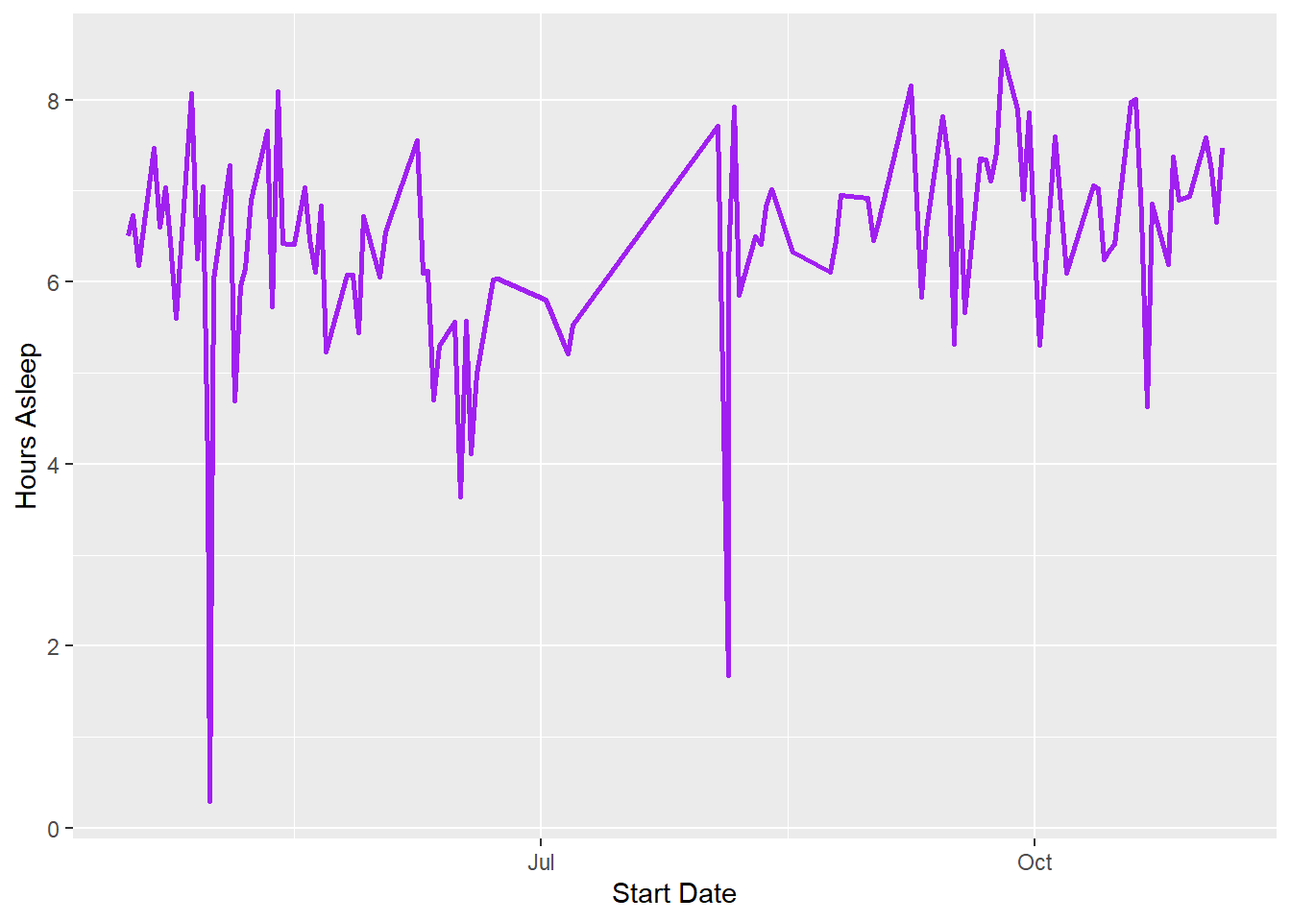
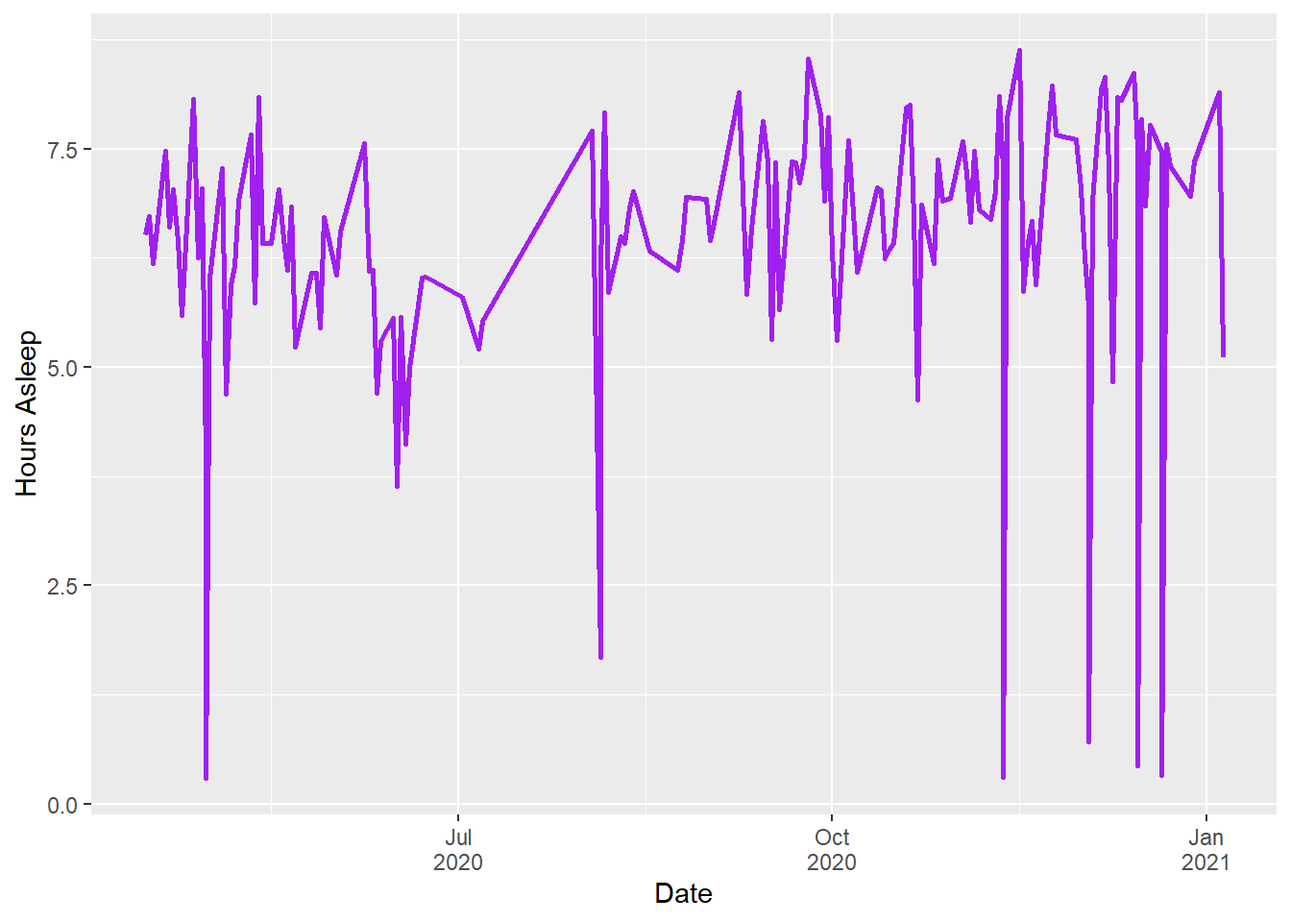
Reload dbase content

diff --git a/rstudio_ref.html b/rstudio_ref.html
@@ -584,31 +584,40 @@ conn &lt;- DBI::dbConnect(
 sql &lt;- glue(&quot;SELECT * FROM sleepdata&quot;)
 res &lt;- dbGetQuery(conn, sql)
 # cols &lt;- names(res)
-
-datatable(res, options=list(scrollX=T))</code></pre>
-<div id="htmlwidget-ea2a5f286cea3336fe67" style="width:100%;height:auto;" class="datatables html-widget"></div>
-<script type="application/json" data-for="htmlwidget-ea2a5f286cea3336fe67">{"x":{"filter":"none","data":[["1","2","3","4","5","6","7","8","9","10","11","12","13","14","15","16","17","18","19","20","21","22","23","24","25","26","27","28","29","30","31","32","33","34","35","36","37","38","39","40","41","42","43","44","45","46","47","48","49","50","51","52","53","54","55","56","57","58","59","60","61","62","63","64","65","66","67","68","69","70","71","72","73","74","75","76","77","78","79","80","81","82","83","84","85","86","87","88","89","90","91","92","93","94","95","96","97","98","99","100","101","102","103","104","105"],["2020-04-15T03:41:00Z","2020-04-16T03:51:00Z","2020-04-17T04:35:00Z","2020-04-20T03:41:00Z","2020-04-21T03:47:00Z","2020-04-22T03:36:00Z","2020-04-23T03:36:00Z","2020-04-24T03:49:00Z","2020-04-27T02:57:00Z","2020-04-28T03:27:00Z","2020-04-29T03:25:00Z","2020-04-30T04:00:00Z","2020-04-30T10:01:00Z","2020-05-01T04:45:00Z","2020-05-04T03:09:00Z","2020-05-05T03:55:00Z","2020-05-06T04:17:00Z","2020-05-07T03:40:00Z","2020-05-08T03:32:00Z","2020-05-11T03:10:00Z","2020-05-12T03:05:00Z","2020-05-13T03:18:00Z","2020-05-14T03:27:00Z","2020-05-15T03:59:00Z","2020-05-16T03:33:00Z","2020-05-18T03:05:00Z","2020-05-19T03:24:00Z","2020-05-20T04:12:00Z","2020-05-21T04:02:00Z","2020-05-22T03:38:00Z","2020-05-26T03:15:00Z","2020-05-27T03:37:00Z","2020-05-28T03:39:00Z","2020-05-29T03:17:00Z","2020-06-01T03:25:00Z","2020-06-02T04:21:00Z","2020-06-08T03:49:00Z","2020-06-09T03:29:00Z","2020-06-10T03:59:00Z","2020-06-11T05:39:00Z","2020-06-12T05:07:00Z","2020-06-15T04:56:00Z","2020-06-16T05:44:00Z","2020-06-17T04:45:00Z","2020-06-18T04:20:00Z","2020-06-19T04:53:00Z","2020-06-22T05:04:00Z","2020-06-23T03:57:00Z","2020-07-02T04:42:00Z","2020-07-06T05:08:00Z","2020-07-07T04:49:00Z","2020-08-03T03:32:00Z","2020-08-05T02:36:00Z","2020-08-05T05:53:00Z","2020-08-06T03:46:00Z","2020-08-07T04:20:00Z","2020-08-10T03:51:00Z","2020-08-11T04:32:00Z","2020-08-12T04:21:00Z","2020-08-13T04:16:00Z","2020-08-17T03:51:00Z","2020-08-24T03:38:00Z","2020-08-25T04:03:00Z","2020-08-26T03:31:00Z","2020-08-31T03:51:00Z","2020-09-01T03:33:00Z","2020-09-02T04:22:00Z","2020-09-08T03:37:00Z","2020-09-10T03:38:00Z","2020-09-11T03:19:00Z","2020-09-14T03:26:00Z","2020-09-15T03:11:00Z","2020-09-16T03:59:00Z","2020-09-17T03:22:00Z","2020-09-18T04:46:00Z","2020-09-21T03:33:00Z","2020-09-22T03:52:00Z","2020-09-23T03:16:00Z","2020-09-24T03:42:00Z","2020-09-25T02:36:00Z","2020-09-28T02:56:00Z","2020-09-29T03:35:00Z","2020-09-30T03:05:00Z","2020-10-01T04:42:00Z","2020-10-02T04:11:00Z","2020-10-05T03:12:00Z","2020-10-07T04:22:00Z","2020-10-12T03:41:00Z","2020-10-13T03:43:00Z","2020-10-14T03:19:00Z","2020-10-15T04:05:00Z","2020-10-16T04:31:00Z","2020-10-19T03:08:00Z","2020-10-20T03:13:00Z","2020-10-21T03:56:00Z","2020-10-22T03:44:00Z","2020-10-23T04:22:00Z","2020-10-26T04:13:00Z","2020-10-27T03:34:00Z","2020-10-28T03:42:00Z","2020-10-30T04:09:00Z","2020-11-02T03:59:00Z","2020-11-03T04:45:00Z","2020-11-04T04:39:00Z","2020-11-05T04:35:00Z"],["2020-04-15T11:12:00Z","2020-04-16T11:35:00Z","2020-04-17T11:55:00Z","2020-04-20T11:57:00Z","2020-04-21T11:34:00Z","2020-04-22T11:45:00Z","2020-04-23T11:16:00Z","2020-04-24T11:07:00Z","2020-04-27T11:36:00Z","2020-04-28T11:20:00Z","2020-04-29T11:33:00Z","2020-04-30T09:04:00Z","2020-04-30T10:19:00Z","2020-05-01T11:47:00Z","2020-05-04T11:35:00Z","2020-05-05T10:24:00Z","2020-05-06T10:50:00Z","2020-05-07T11:09:00Z","2020-05-08T11:22:00Z","2020-05-11T11:34:00Z","2020-05-12T09:33:00Z","2020-05-13T11:42:00Z","2020-05-14T10:08:00Z","2020-05-15T11:33:00Z","2020-05-16T10:57:00Z","2020-05-18T11:48:00Z","2020-05-19T11:05:00Z","2020-05-20T11:02:00Z","2020-05-21T11:34:00Z","2020-05-22T10:31:00Z","2020-05-26T10:51:00Z","2020-05-27T11:15:00Z","2020-05-28T10:16:00Z","2020-05-29T10:38:00Z","2020-06-01T11:02:00Z","2020-06-02T11:31:00Z","2020-06-08T12:32:00Z","2020-06-09T11:01:00Z","2020-06-10T11:15:00Z","2020-06-11T10:39:00Z","2020-06-12T11:25:00Z","2020-06-15T11:19:00Z","2020-06-16T09:57:00Z","2020-06-17T11:20:00Z","2020-06-18T09:53:00Z","2020-06-19T11:13:00Z","2020-06-22T11:33:00Z","2020-06-23T10:39:00Z","2020-07-02T11:33:00Z","2020-07-06T11:14:00Z","2020-07-07T10:27:00Z","2020-08-03T11:58:00Z","2020-08-05T04:19:00Z","2020-08-05T12:12:00Z","2020-08-06T11:51:00Z","2020-08-07T12:13:00Z","2020-08-10T11:33:00Z","2020-08-11T11:49:00Z","2020-08-12T11:52:00Z","2020-08-13T12:11:00Z","2020-08-17T11:19:00Z","2020-08-24T11:01:00Z","2020-08-25T11:46:00Z","2020-08-26T11:40:00Z","2020-08-31T11:47:00Z","2020-09-01T11:39:00Z","2020-09-02T11:52:00Z","2020-09-08T11:56:00Z","2020-09-10T10:51:00Z","2020-09-11T11:02:00Z","2020-09-14T12:07:00Z","2020-09-15T11:50:00Z","2020-09-16T10:13:00Z","2020-09-17T12:05:00Z","2020-09-18T11:29:00Z","2020-09-21T11:58:00Z","2020-09-22T11:53:00Z","2020-09-23T11:44:00Z","2020-09-24T11:56:00Z","2020-09-25T11:52:00Z","2020-09-28T11:52:00Z","2020-09-29T11:44:00Z","2020-09-30T11:55:00Z","2020-10-01T12:12:00Z","2020-10-02T10:32:00Z","2020-10-05T11:50:00Z","2020-10-07T11:44:00Z","2020-10-12T12:03:00Z","2020-10-13T12:06:00Z","2020-10-14T12:12:00Z","2020-10-15T11:51:00Z","2020-10-16T11:45:00Z","2020-10-19T12:03:00Z","2020-10-20T11:57:00Z","2020-10-21T12:10:00Z","2020-10-22T10:24:00Z","2020-10-23T11:56:00Z","2020-10-26T11:50:00Z","2020-10-27T11:51:00Z","2020-10-28T11:59:00Z","2020-10-30T12:08:00Z","2020-11-02T12:57:00Z","2020-11-03T13:00:00Z","2020-11-04T12:47:00Z","2020-11-05T12:58:00Z"],[0.88,0.7,0.8,0.75,0.7,0.94,0.79,0.84,0.75,0.89,0.87,0.42,0.04,0.81,0.73,0.76,0.69,0.65,0.65,0.64,0.46,0.72,0.64,0.63,0.72,0.69,0.78,0.82,0.84,0.71,0.64,0.7,0.64,0.51,0.81,0.83,0.82,0.72,0.71,0.47,0.69,0.65,0.48,0.68,0.63,0.65,0.66,0.69,0.74,0.56,0.63,0.67,0.22,0.54,0.6,0.54,0.66,0.65,0.69,0.67,0.69,0.71,0.68,0.77,0.64,0.8,0.71,0.64,0.61,0.65,0.84,0.82,0.51,0.84,0.68,0.69,0.76,0.81,0.66,0.81,0.85,0.75,0.83,0.74,0.55,0.79,0.82,0.78,0.82,0.67,0.79,0.68,0.86,0.93,0.74,0.62,0.81,0.86,0.85,0.81,0.85,0.95,0.82,0.87,0.82],[0,0,0.91,0.92,0.96,0.96,0.96,0.97,0.89,0.94,0.96,0.89,0,0.81,0.85,0.84,0.89,0.9,0.94,0.95,0.82,0.81,0.83,0.83,0.87,0.9,0.9,0.92,0.93,0.92,0,0.94,0.93,0.93,0.95,0.88,0,0.85,0.89,0.86,0.88,0.98,0.82,0.81,0.82,0.83,0.96,0.83,0,0,0.91,0,-0.44,0.78,0.79,0.86,0.9,0.92,0.95,0.96,0,0,0.9,0.92,0,0.96,0.94,0,0.91,0.93,0.9,0.96,0.88,0.85,0.81,0.86,0.97,0.95,0.95,0.93,0.97,0.93,0.94,0.91,0.87,0.81,0.89,0,0.99,0.98,0.95,0.94,0.86,0.98,0.95,0.91,0.86,0.98,0.94,0.96,0.96,0.97,0.98,0.98,0.98],["%","%","%","%","%","%","%","%","%","%","%","%","%","%","%","%","%","%","%","%","%","%","%","%","%","%","%","%","%","%","%","%","%","%","%","%","%","%","%","%","%","%","%","%","%","%","%","%","%","%","%","%","%","%","%","%","%","%","%","%","%","%","%","%","%","%","%","%","%","%","%","%","%","%","%","%","%","%","%","%","%","%","%","%","%","%","%","%","%","%","%","%","%","%","%","%","%","%","%","%","%","%","%","%","%"],[null,null,null,null,null,null,null,null,null,null,null,null,null,null,null,null,null,null,null,null,null,null,null,null,null,null,null,null,null,null,null,null,null,null,null,null,null,null,null,null,null,null,null,null,null,null,null,null,null,null,null,null,null,null,null,null,null,null,null,null,null,null,null,null,null,null,null,null,null,null,null,null,null,null,null,null,null,null,null,null,null,null,null,null,null,null,null,null,null,null,null,null,null,null,null,null,null,null,null,null,null,null,null,null,null],[0,0,0,0,0,0,0,0,0,0,0,0,0,0,0,0,0,0,0,0,0,0,0,0,0,0,0,0,0,0,0,0,0,0,0,0,0,0,0,0,0,0,0,0,0,0,0,0,0,0,0,0,0,0,0,0,0,69,0,0,0,82,0,0,0,0,0,0,0,0,0,0,0,0,0,0,0,0,97,0,0,0,0,0,0,0,0,0,0,71,0,0,0,0,0,0,0,65,0,0,0,0,0,0,0],[0,0,0,0,0,4951,464,559,3802,15,752,309,309,848,518,2364,1139,1045,1331,2470,1452,868,802,974,877,3611,2099,1103,199,662,1742,608,257,4614,3634,657,263,1973,1812,4317,6482,1212,1841,4289,1653,5367,5206,965,9664,13484,10050,14673,3064,3064,5797,1316,7307,6444,8585,7214,5973,10467,9378,8326,10273,9411,7163,17174,4928,7036,9145,2941,0,9045,3005,10904,7574,9566,1964,5888,10462,3880,3193,4421,3175,5397,5240,8578,8291,2145,6688,6076,18043,10493,10161,4630,6617,17505,8262,3700,5282,7318,4819,2271,7699],["Normal","Normal","Normal","Normal","Normal","Normal","Normal","Normal","Normal","Normal","Normal","Normal","Normal","Normal","Normal","Normal","Normal","Normal","Normal","Normal","Normal","Normal","Normal","Normal","Normal","Normal","Normal","Normal","Normal","Normal","Normal","Normal","Normal","Normal","Normal","Normal","Normal","Normal","Normal","Normal","Normal","Normal","Normal","Normal","Normal","Normal","Normal","Normal","Normal","Normal","Normal","Normal","Normal","Normal","Normal","Normal","Normal","Normal","Normal","Normal","Normal","Normal","Normal","Normal","Normal","Normal","Normal","Normal","Normal","Normal","Normal","Normal","Normal","Normal","Normal","Normal","Normal","Normal","Normal","Normal","Normal","Normal","Normal","Normal","Normal","Normal","Normal","Normal","Normal","Normal","Normal","Normal","Normal","Normal","Normal","Normal","Normal","Normal","Normal","Normal","Normal","Normal","Normal","Normal","Normal"],[102.1,102,101.7,101.5,101.7,102.2,101.5,102.3,101,101.9,101.9,101.1,101.4,101.8,102.2,101.9,101.4,102.9,102,100.3,100.4,100.4,100.9,101.4,101.4,100.3,100.8,101.5,101.5,101.3,101.6,101.8,101.5,101,101.6,102,101.5,101.9,101.8,101.5,101.2,101.2,101.2,101.9,102.2,101.5,102,101.6,101.1,101.6,0,101.5,101.1,101.1,100.9,101.5,102,101.2,101,101.6,100.9,101.1,101.1,101.2,101.5,101.8,101.6,101.9,101,101,100.9,101.1,101.5,101.4,101,101.3,101.2,101.1,100.4,101.2,102.7,101.8,101.4,101.9,101.7,101.9,101.3,100.3,101.7,101.6,102.9,102.8,101.5,101.9,101.7,102.1,102.4,103.1,102.8,102.3,101.3,101.8,101.2,101,101.4],[null,null,"Steilacoom","Steilacoom","Steilacoom","Steilacoom","Steilacoom","Steilacoom","Steilacoom","Steilacoom","Steilacoom","Steilacoom","Steilacoom","Anderson Island","Steilacoom","DuPont","Steilacoom","Steilacoom","Anderson Island","Steilacoom","Steilacoom","Steilacoom","Steilacoom","Steilacoom","Steilacoom","Steilacoom","Steilacoom","Steilacoom","Steilacoom","Steilacoom","Steilacoom","Steilacoom","Steilacoom","Steilacoom","Steilacoom","Steilacoom","Steilacoom","Steilacoom","Steilacoom","Steilacoom","Steilacoom","Steilacoom","Steilacoom","Steilacoom","Steilacoom","Steilacoom","Steilacoom","Steilacoom","Steilacoom","Steilacoom",null,"Steilacoom","Steilacoom","Steilacoom","Steilacoom","Steilacoom","Steilacoom","Steilacoom","Steilacoom","Steilacoom","Steilacoom","Steilacoom","Steilacoom","Steilacoom","Steilacoom","Steilacoom","Steilacoom","Steilacoom","Steilacoom","Steilacoom","Steilacoom","Steilacoom","Steilacoom","Steilacoom","Steilacoom","Steilacoom","Steilacoom","Steilacoom","Steilacoom","Steilacoom","Steilacoom","Steilacoom","Steilacoom","Steilacoom","Steilacoom","Steilacoom","Steilacoom","Steilacoom","Steilacoom","Steilacoom","Steilacoom","Steilacoom","Steilacoom","Steilacoom","Anderson Island","Steilacoom","Steilacoom","Steilacoom","Steilacoom","Steilacoom","Steilacoom","Steilacoom","Steilacoom","Steilacoom","Steilacoom"],[69.4,92.5,74,92.6,96.9,71.1,82,70.3,98,73.2,77.6,103.2,0,69.7,101,68.3,79.9,99.6,106.5,119.9,138.5,116.8,102.2,124.4,101.1,135.3,97.4,64.4,78.5,93.2,125.4,112.9,106,161.6,90.7,72.7,113.9,111.2,106.4,111.8,84.8,99.1,78.4,94.8,79.4,97.3,98,96.7,86.7,114,0,137.2,13.1,130.5,156.3,175.5,137.6,130.1,125.9,143.7,125.1,118.7,134.9,122.8,155.2,112.2,123.2,166.6,147.4,152.5,121.4,125.9,159.9,124.1,111.2,160.1,128.5,127.4,166.8,143,130,137.1,134.1,122.9,153.2,138.9,89.9,134.6,125.3,183.8,116.4,136.3,129,106.1,146.2,140.1,104.9,89.7,116,125.9,103.6,106.4,122.5,105,125.5],[27056.9,27844.9,26392.4,29766.6,27988.7,29345.9,27611.1,26285,31113.1,28385.9,29258.9,18210.4,1072.6,25324.2,30342.6,23340.1,23619.4,26912.5,28238.3,30290.3,23269,30243.2,24087.3,27184.4,26649.2,31413.7,27690.4,24606.5,27132.6,24787.6,27336.8,27477.3,23810.6,26472.9,27381.7,25838.4,31389.8,27103,26207.5,17955.5,22688.3,22995.8,15180.9,23677.6,20027.7,22850.4,23329.7,24154.6,24669.5,21906.9,20317.9,30372.7,6171.4,22733.6,29084.5,28365.4,27718.5,26233.7,27082,28485.5,26907.1,26607.4,27772,29320.3,28523.5,29150.8,26991.1,29937.2,25934.9,27762.6,31258.7,31158.9,22440.4,31350.6,24179.6,30293,28851.5,30473.9,29653.5,33385.2,32171.6,29360.2,31773.7,26982.6,22822.6,31077.8,26533.7,30104.6,30224.9,31972.4,27983.4,26046.4,32123.6,31433.7,29616.3,24034.9,27227.8,27396.2,29828.6,29814.9,28716.9,32266.4,29647.8,29244.1,30222.2],[23449.3,24225,22257.6,26889.2,23790.4,25335.3,23193.3,20151.8,29038.9,22519.5,25357.7,14204.1,1051.2,21694.4,26195.7,16882.7,21414.9,22157.9,24849.7,27564.2,20631.8,29134.3,23123.8,23106.8,23096,25340.3,23259.9,21981.8,24600.2,18838.6,21869.4,21890.3,19604.1,24178.6,21814.1,23599.1,27204.5,21953.4,22014.3,16938.1,19058.2,20006.3,13106.2,20047,14820.5,17975.7,21696.6,21739.1,20886.8,18766.9,19911.5,27740.4,6048,22278.9,28502.8,21084.9,23376,23085.6,24554.3,25257.1,22781.4,21995.5,23235.9,25020,24910.5,23223.4,23932.1,29338.4,21007.3,23690.7,28132.9,26485.1,19149.1,26439,20391.4,26455.9,26447.2,25598.1,26688.1,30714.4,28418.2,24858.3,28278.6,22755.3,19094.9,27348.5,21934.5,25388.2,25288.2,22487.3,22853.1,23094.5,28697,28814.3,24186.7,16664.2,24686.6,22282.2,26547.5,24845.7,24983.7,27318.9,25991.2,23980.2,26897.8],[541.1,2227.6,527.8,595.3,559.8,2934.6,552.2,525.7,622.3,4068.6,3218.5,364.2,21.5,506.5,2326.3,2800.8,472.4,2153,1882.6,605.8,2637.2,1108.9,481.7,3352.7,533,6073.3,3138.2,492.1,542.7,1817.8,3371.5,3205.7,476.2,529.5,3194.5,516.8,627.8,4426.8,524.1,359.1,2420.1,459.9,303.6,473.6,1401.9,3503.7,466.6,483.1,493.4,438.1,406.4,607.5,123.4,454.7,581.7,567.3,554.4,524.7,541.6,569.7,538.1,532.1,555.4,586.4,570.5,2915.1,539.8,598.7,518.7,555.3,625.2,623.2,448.8,627,483.6,605.9,577,2844.2,593.1,667.7,643.4,1663.7,635.5,539.7,456.5,621.6,1857.4,602.1,604.5,639.4,559.7,520.9,642.5,628.7,1579.5,480.7,544.6,2100.4,596.6,596.3,574.3,645.3,593,1657.2,1208.9],["2020-04-15T11:30:00Z","2020-04-16T11:30:00Z","2020-04-17T11:30:00Z","2020-04-20T11:30:00Z","2020-04-21T11:30:00Z","2020-04-22T11:30:00Z","2020-04-23T11:30:00Z","2020-04-24T11:30:00Z","2020-04-27T11:30:00Z","2020-04-28T11:30:00Z","2020-04-29T11:30:00Z","2020-04-30T11:30:00Z","2020-04-30T11:30:00Z","2020-05-01T11:30:00Z","2020-05-04T11:30:00Z","2020-05-05T11:30:00Z","2020-05-06T11:30:00Z","2020-05-07T11:30:00Z","2020-05-08T11:30:00Z","2020-05-11T11:30:00Z","2020-05-12T11:30:00Z","2020-05-13T11:30:00Z","2020-05-14T11:30:00Z","2020-05-15T11:30:00Z","2020-05-16T12:30:00Z","2020-05-18T11:30:00Z","2020-05-19T11:30:00Z","2020-05-20T11:30:00Z","2020-05-21T11:30:00Z","2020-05-22T11:30:00Z","2020-05-26T11:30:00Z","2020-05-27T11:30:00Z","2020-05-28T11:30:00Z","2020-05-29T11:30:00Z","2020-06-01T11:30:00Z","2020-06-02T11:30:00Z","2020-06-08T11:30:00Z","2020-06-09T11:30:00Z","2020-06-10T11:30:00Z","2020-06-11T11:30:00Z","2020-06-12T11:30:00Z","2020-06-15T11:30:00Z","2020-06-16T11:30:00Z","2020-06-17T11:30:00Z","2020-06-18T11:30:00Z","2020-06-19T11:30:00Z","2020-06-22T11:30:00Z","2020-06-23T11:30:00Z","2020-07-02T11:30:00Z","2020-07-06T11:30:00Z",null,"2020-08-03T11:30:00Z","2020-08-05T11:30:00Z","2020-08-05T12:00:00Z","2020-08-06T11:45:00Z","2020-08-07T11:45:00Z","2020-08-10T11:45:00Z","2020-08-11T11:45:00Z","2020-08-12T11:45:00Z","2020-08-13T11:45:00Z","2020-08-17T11:40:00Z","2020-08-24T11:40:00Z","2020-08-25T11:40:00Z","2020-08-26T11:40:00Z","2020-08-31T11:40:00Z","2020-09-01T11:40:00Z","2020-09-02T11:40:00Z","2020-09-08T11:45:00Z","2020-09-10T11:45:00Z","2020-09-11T11:45:00Z","2020-09-14T11:45:00Z","2020-09-15T11:45:00Z","2020-09-16T11:45:00Z","2020-09-17T11:45:00Z","2020-09-18T11:45:00Z","2020-09-21T11:45:00Z","2020-09-22T11:45:00Z","2020-09-23T11:45:00Z","2020-09-24T11:45:00Z","2020-09-25T11:45:00Z","2020-09-28T11:45:00Z","2020-09-29T11:45:00Z","2020-09-30T11:45:00Z","2020-10-01T11:45:00Z","2020-10-02T11:45:00Z","2020-10-05T11:45:00Z","2020-10-07T11:45:00Z","2020-10-12T11:45:00Z","2020-10-13T11:45:00Z","2020-10-14T11:45:00Z","2020-10-15T11:45:00Z","2020-10-16T11:45:00Z","2020-10-19T11:45:00Z","2020-10-20T11:45:00Z","2020-10-21T11:45:00Z","2020-10-22T11:45:00Z","2020-10-23T11:45:00Z","2020-10-26T11:45:00Z","2020-10-27T11:45:00Z","2020-10-28T11:45:00Z","2020-10-30T11:45:00Z","2020-11-02T13:00:00Z","2020-11-03T13:00:00Z","2020-11-04T13:00:00Z","2020-11-05T13:00:00Z"],["2020-04-15T12:00:00Z","2020-04-16T12:00:00Z","2020-04-17T12:00:00Z","2020-04-20T12:00:00Z","2020-04-21T12:00:00Z","2020-04-22T12:00:00Z","2020-04-23T12:00:00Z","2020-04-24T12:00:00Z","2020-04-27T12:00:00Z","2020-04-28T12:00:00Z","2020-04-29T12:00:00Z","2020-04-30T12:00:00Z","2020-04-30T12:00:00Z","2020-05-01T12:00:00Z","2020-05-04T12:00:00Z","2020-05-05T12:00:00Z","2020-05-06T12:00:00Z","2020-05-07T12:00:00Z","2020-05-08T12:00:00Z","2020-05-11T12:00:00Z","2020-05-12T12:00:00Z","2020-05-13T12:00:00Z","2020-05-14T12:00:00Z","2020-05-15T12:00:00Z","2020-05-16T13:00:00Z","2020-05-18T12:00:00Z","2020-05-19T12:00:00Z","2020-05-20T12:00:00Z","2020-05-21T12:00:00Z","2020-05-22T12:00:00Z","2020-05-26T12:00:00Z","2020-05-27T12:00:00Z","2020-05-28T12:00:00Z","2020-05-29T12:00:00Z","2020-06-01T12:00:00Z","2020-06-02T12:00:00Z","2020-06-08T12:00:00Z","2020-06-09T12:00:00Z","2020-06-10T12:00:00Z","2020-06-11T12:00:00Z","2020-06-12T12:00:00Z","2020-06-15T12:00:00Z","2020-06-16T12:00:00Z","2020-06-17T12:00:00Z","2020-06-18T12:00:00Z","2020-06-19T12:00:00Z","2020-06-22T12:00:00Z","2020-06-23T12:00:00Z","2020-07-02T12:00:00Z","2020-07-06T12:00:00Z",null,"2020-08-03T12:00:00Z","2020-08-05T12:00:00Z","2020-08-05T12:30:00Z","2020-08-06T12:15:00Z","2020-08-07T12:15:00Z","2020-08-10T12:15:00Z","2020-08-11T12:15:00Z","2020-08-12T12:15:00Z","2020-08-13T12:15:00Z","2020-08-17T12:10:00Z","2020-08-24T12:10:00Z","2020-08-25T12:10:00Z","2020-08-26T12:10:00Z","2020-08-31T12:10:00Z","2020-09-01T12:10:00Z","2020-09-02T12:10:00Z","2020-09-08T12:15:00Z","2020-09-10T12:15:00Z","2020-09-11T12:15:00Z","2020-09-14T12:15:00Z","2020-09-15T12:15:00Z","2020-09-16T12:15:00Z","2020-09-17T12:15:00Z","2020-09-18T12:15:00Z","2020-09-21T12:15:00Z","2020-09-22T12:15:00Z","2020-09-23T12:15:00Z","2020-09-24T12:15:00Z","2020-09-25T12:15:00Z","2020-09-28T12:15:00Z","2020-09-29T12:15:00Z","2020-09-30T12:15:00Z","2020-10-01T12:15:00Z","2020-10-02T12:15:00Z","2020-10-05T12:15:00Z","2020-10-07T12:15:00Z","2020-10-12T12:15:00Z","2020-10-13T12:15:00Z","2020-10-14T12:15:00Z","2020-10-15T12:15:00Z","2020-10-16T12:15:00Z","2020-10-19T12:15:00Z","2020-10-20T12:15:00Z","2020-10-21T12:15:00Z","2020-10-22T12:15:00Z","2020-10-23T12:15:00Z","2020-10-26T12:15:00Z","2020-10-27T12:15:00Z","2020-10-28T12:15:00Z","2020-10-30T12:15:00Z","2020-11-02T13:30:00Z","2020-11-03T13:30:00Z","2020-11-04T13:30:00Z","2020-11-05T13:30:00Z"],[true,true,true,true,true,true,true,true,true,true,true,true,true,true,true,true,true,true,true,true,true,true,true,true,true,true,true,true,true,true,true,true,true,true,true,true,true,true,true,true,true,true,true,true,true,true,true,true,true,true,false,true,true,true,true,true,true,true,true,true,true,true,true,true,true,true,true,true,true,true,true,true,false,true,true,true,true,true,true,true,true,true,true,true,true,true,true,true,true,true,true,true,true,true,true,true,true,true,true,true,true,true,true,true,true],[444,0,547,67,93,1001,581,0,0,0,0,73,0,0,0,0,0,696,327,0,129,139,227,224,70,69,282,1562,254,67,379,72,146,68,0,177,77,162,0,694,203,173,0,319,67,66,1768,0,246,159,0,0,0,68,0,91,0,66,66,145,0,240,0,307,0,85,335,0,875,1160,212.4,389.7,0,635.2,1051.3,3712.5,1778.8,417,4108,6673,635.1,1330.6,1828.3,151.3,137.7,1024.7,388.8,297.2,1181,693.9,76.4,228.4,0,510.3,620,580.7,0,420.3,0,1476.2,100.4,454.3,904.8,884.3,280.9],[32,32,37.6,44.2,45.9,45.9,49.5,45,49.8,45,47.1,50.2,32,41.9,37.6,48,49.5,44.6,47.5,52.7,52.5,50.9,49.8,48.4,51.6,47.3,52,52,47.1,45.7,55.2,51.4,54,62.4,50.4,46.6,49.6,52.3,54.7,56.8,55,53.8,50,48.2,53.1,55.6,51.6,60.1,52.7,53.4,32,60.8,32,59.2,62.2,54.5,55.9,53.8,53.4,50.2,64.8,59.2,57.6,57.7,58.6,56.8,57.2,63.7,68,63.9,58.1,64.9,32,60.6,60.3,54.5,57.7,57.7,57,58.1,52.2,54,54,56.7,55.9,51.4,54.7,52.9,53.1,50.2,44.8,54,53.4,47.5,49.1,43.9,39.7,37.8,37.9,48.4,51.1,41.5,46.2,57.7,54.7],["No weather","No weather","Sunny","Fair","Cloudy","Cloudy","Rain","Rain","Cloudy","Cloudy","Cloudy","Cloudy","No weather","Fair","Sunny","Cloudy","Partly cloudy","Sunny","Sunny","Cloudy","Rain","Rain","Cloudy","Fair","Partly cloudy","Partly cloudy","Partly cloudy","Cloudy","Fair","Sunny","Cloudy","Sunny","Partly cloudy","Cloudy","Cloudy","Cloudy","Fair","Rain","Partly cloudy","Rain","Rain","Rain","Rain","Fair","Sunny","Partly cloudy","Partly cloudy","Sunny","Partly cloudy","Partly cloudy","No weather","Cloudy","No weather","Partly cloudy","Cloudy","Fair","Sunny","Partly cloudy","Cloudy","Sunny","Fair","Sunny","Sunny","Sunny","Rain","Sunny","Sunny","Fair","Sunny","Sunny","Cloudy","Fair","No weather","Fog","Cloudy","Cloudy","Partly cloudy","Rain","Rain","Rain","Sunny","Partly cloudy","Fog","Fog","Fog","Fog","Cloudy","Partly cloudy","Rain","Cloudy","Partly cloudy","Cloudy","Fair","Partly cloudy","Sunny","Fair","Cloudy","Partly cloudy","Partly cloudy","Cloudy","Rain","Sunny","Cloudy","Cloudy","Rain"],[null,null,null,null,null,null,null,null,null,null,null,null,null,null,null,null,null,null,null,null,null,null,null,null,null,null,null,null,null,null,null,null,null,null,null,null,null,null,null,null,null,null,null,null,null,null,null,null,null,null,null,null,null,null,null,null,null,null,null,null,null,null,null,null,null,null,null,null,null,null,null,null,null,null,null,null,null,"Sick",null,null,null,null,null,null,null,null,null,null,null,null,null,null,null,null,null,null,null,null,null,null,null,null,null,null,null],["2020-11-05T22:59:24Z","2020-11-05T22:59:24Z","2020-11-05T22:59:24Z","2020-11-05T22:59:24Z","2020-11-05T22:59:24Z","2020-11-05T22:59:24Z","2020-11-05T22:59:24Z","2020-11-05T22:59:24Z","2020-11-05T22:59:24Z","2020-11-05T22:59:24Z","2020-11-05T22:59:24Z","2020-11-05T22:59:24Z","2020-11-05T22:59:24Z","2020-11-05T22:59:24Z","2020-11-05T22:59:24Z","2020-11-05T22:59:24Z","2020-11-05T22:59:24Z","2020-11-05T22:59:24Z","2020-11-05T22:59:24Z","2020-11-05T22:59:24Z","2020-11-05T22:59:24Z","2020-11-05T22:59:24Z","2020-11-05T22:59:24Z","2020-11-05T22:59:24Z","2020-11-05T22:59:24Z","2020-11-05T22:59:24Z","2020-11-05T22:59:24Z","2020-11-05T22:59:24Z","2020-11-05T22:59:24Z","2020-11-05T22:59:24Z","2020-11-05T22:59:24Z","2020-11-05T22:59:24Z","2020-11-05T22:59:24Z","2020-11-05T22:59:24Z","2020-11-05T22:59:24Z","2020-11-05T22:59:24Z","2020-11-05T22:59:24Z","2020-11-05T22:59:24Z","2020-11-05T22:59:24Z","2020-11-05T22:59:24Z","2020-11-05T22:59:24Z","2020-11-05T22:59:24Z","2020-11-05T22:59:24Z","2020-11-05T22:59:24Z","2020-11-05T22:59:24Z","2020-11-05T22:59:24Z","2020-11-05T22:59:24Z","2020-11-05T22:59:24Z","2020-11-05T22:59:24Z","2020-11-05T22:59:24Z","2020-11-05T22:59:24Z","2020-11-05T22:59:24Z","2020-11-05T22:59:24Z","2020-11-05T22:59:24Z","2020-11-05T22:59:24Z","2020-11-05T22:59:24Z","2020-11-05T22:59:24Z","2020-11-05T22:59:24Z","2020-11-05T22:59:24Z","2020-11-05T22:59:24Z","2020-11-05T22:59:24Z","2020-11-05T22:59:24Z","2020-11-05T22:59:24Z","2020-11-05T22:59:24Z","2020-11-05T22:59:24Z","2020-11-05T22:59:24Z","2020-11-05T22:59:24Z","2020-11-05T22:59:24Z","2020-11-05T22:59:24Z","2020-11-05T22:59:24Z","2020-11-05T22:59:24Z","2020-11-05T22:59:24Z","2020-11-05T22:59:24Z","2020-11-05T22:59:24Z","2020-11-05T22:59:24Z","2020-11-05T22:59:24Z","2020-11-05T22:59:24Z","2020-11-05T22:59:24Z","2020-11-05T22:59:24Z","2020-11-05T22:59:24Z","2020-11-05T22:59:24Z","2020-11-05T22:59:24Z","2020-11-05T22:59:24Z","2020-11-05T22:59:24Z","2020-11-05T22:59:24Z","2020-11-05T22:59:24Z","2020-11-05T22:59:24Z","2020-11-05T22:59:24Z","2020-11-05T22:59:24Z","2020-11-05T22:59:24Z","2020-11-05T22:59:24Z","2020-11-05T22:59:24Z","2020-11-05T22:59:24Z","2020-11-05T22:59:24Z","2020-11-05T22:59:24Z","2020-11-05T22:59:24Z","2020-11-05T22:59:24Z","2020-11-05T22:59:24Z","2020-11-05T22:59:24Z","2020-11-05T22:59:24Z","2020-11-05T22:59:24Z","2020-11-05T22:59:24Z","2020-11-05T22:59:24Z","2020-11-05T22:59:24Z","2020-11-05T22:59:24Z"],["cgrant","cgrant","cgrant","cgrant","cgrant","cgrant","cgrant","cgrant","cgrant","cgrant","cgrant","cgrant","cgrant","cgrant","cgrant","cgrant","cgrant","cgrant","cgrant","cgrant","cgrant","cgrant","cgrant","cgrant","cgrant","cgrant","cgrant","cgrant","cgrant","cgrant","cgrant","cgrant","cgrant","cgrant","cgrant","cgrant","cgrant","cgrant","cgrant","cgrant","cgrant","cgrant","cgrant","cgrant","cgrant","cgrant","cgrant","cgrant","cgrant","cgrant","cgrant","cgrant","cgrant","cgrant","cgrant","cgrant","cgrant","cgrant","cgrant","cgrant","cgrant","cgrant","cgrant","cgrant","cgrant","cgrant","cgrant","cgrant","cgrant","cgrant","cgrant","cgrant","cgrant","cgrant","cgrant","cgrant","cgrant","cgrant","cgrant","cgrant","cgrant","cgrant","cgrant","cgrant","cgrant","cgrant","cgrant","cgrant","cgrant","cgrant","cgrant","cgrant","cgrant","cgrant","cgrant","cgrant","cgrant","cgrant","cgrant","cgrant","cgrant","cgrant","cgrant","cgrant","cgrant"]],"container":"<table class=\"display\">\n  <thead>\n    <tr>\n      <th> <\/th>\n      <th>start_time<\/th>\n      <th>end_time<\/th>\n      <th>sleep_quality<\/th>\n      <th>regularity<\/th>\n      <th>unit<\/th>\n      <th>mood<\/th>\n      <th>heart_rate_bpm<\/th>\n      <th>steps<\/th>\n      <th>alarm_mode<\/th>\n      <th>air_pressure_pa<\/th>\n      <th>city<\/th>\n      <th>movements_per_hour<\/th>\n      <th>seconds_in bed<\/th>\n      <th>seconds_asleep<\/th>\n      <th>seconds_until_sleep<\/th>\n      <th>wakeup_window_start<\/th>\n      <th>wakeup_window_end<\/th>\n      <th>snore<\/th>\n      <th>snore_time<\/th>\n      <th>weather_temperature_f<\/th>\n      <th>weather_type<\/th>\n      <th>notes<\/th>\n      <th>rev_time<\/th>\n      <th>rev_user<\/th>\n    <\/tr>\n  <\/thead>\n<\/table>","options":{"scrollX":true,"columnDefs":[{"className":"dt-right","targets":[3,4,7,8,10,12,13,14,15,19,20]},{"orderable":false,"targets":0}],"order":[],"autoWidth":false,"orderClasses":false}},"evals":[],"jsHooks":[]}</script>
+#datatable(res, options=list(scrollX=T))</code></pre>
 </div>
 </div>
 <div id="plots" class="section level1">
 <h1>Plots</h1>
 <div id="steps" class="section level2">
 <h2>Steps</h2>
-<pre class="r"><code>plt1 &lt;- ggplot(res, aes(x=start_time, y=steps)) +
+<pre class="r"><code>plt1 &lt;- ggplot(res, aes(x=as.Date(start_time), y=steps)) +
   geom_line(color=&quot;red&quot;, size=1) +
   ylab(&quot;Steps&quot;) +
-  xlab(&quot;Start Date&quot;)
+  xlab(&quot;Date&quot;) +
+  scale_x_date(date_labels=&quot;%b\n%Y&quot;)
 plt1</code></pre>
 <p><img src="rstudio_ref_files/figure-html/steps-1.png" width="672" /></p>
 </div>
 <div id="sleep-time" class="section level2">
-<h2>Sleep time</h2>
-<pre class="r"><code>plt2 &lt;- ggplot(res, aes(x=start_time, y=(seconds_asleep / 60) / 60)) +
+<h2>Sleep Time</h2>
+<pre class="r"><code>plt2 &lt;- ggplot(res, aes(x=as.Date(start_time), y=(seconds_asleep / 60) / 60)) +
   geom_line(color=&quot;purple&quot;, size=1) +
   ylab(&quot;Hours Asleep&quot;) +
-  xlab(&quot;Start Date&quot;)
+  xlab(&quot;Date&quot;) +
+  scale_x_date(date_labels=&quot;%b\n%Y&quot;)
 plt2</code></pre>
 <p><img src="rstudio_ref_files/figure-html/sleeptime-1.png" width="672" /></p>
+</div>
+<div id="sleep-quality" class="section level2">
+<h2>Sleep Quality</h2>
+<pre class="r"><code>plt3 &lt;- ggplot(res, aes(x=as.Date(start_time), y=sleep_quality)) +
+  geom_line(color=&quot;blue&quot;, size=1) +
+  ylab(&quot;Sleep Quality&quot;) +
+  xlab(&quot;Date&quot;) +
+  scale_x_date(date_labels=&quot;%b\n%Y&quot;)
+plt3</code></pre>
+<p><img src="rstudio_ref_files/figure-html/sleepqual-1.png" width="672" /></p>
 </div>
 </div>
 

diff --git a/command_line.html b/command_line.html
@@ -447,6 +447,13 @@ div.tocify {
 </div>
 <div id="powershell" class="section level3">
 <h3>Powershell</h3>
+<div style="display:inline;">
+<svg style="height:0.8em;top:.04em;position:relative;" viewBox="0 0 512 512">
+<path d="M480 288c0-80.25-49.28-148.92-119.19-177.62L320 192V80a16 16 0 0 0-16-16h-96a16 16 0 0 0-16 16v112l-40.81-81.62C81.28 139.08 32 207.75 32 288v64h448zm16 96H16a16 16 0 0 0-16 16v32a16 16 0 0 0 16 16h480a16 16 0 0 0 16-16v-32a16 16 0 0 0-16-16z"/>
+</svg>
+<svg style="height:0.8em;top:.04em;position:relative;" viewBox="0 0 576 512"><path d="M571.31 193.94l-22.63-22.63c-6.25-6.25-16.38-6.25-22.63 0l-11.31 11.31-28.9-28.9c5.63-21.31.36-44.9-16.35-61.61l-45.25-45.25c-62.48-62.48-163.79-62.48-226.28 0l90.51 45.25v18.75c0 16.97 6.74 33.25 18.75 45.25l49.14 49.14c16.71 16.71 40.3 21.98 61.61 16.35l28.9 28.9-11.31 11.31c-6.25 6.25-6.25 16.38 0 22.63l22.63 22.63c6.25 6.25 16.38 6.25 22.63 0l90.51-90.51c6.23-6.24 6.23-16.37-.02-22.62zm-286.72-15.2c-3.7-3.7-6.84-7.79-9.85-11.95L19.64 404.96c-25.57 23.88-26.26 64.19-1.53 88.93s65.05 24.05 88.93-1.53l238.13-255.07c-3.96-2.91-7.9-5.87-11.44-9.41l-49.14-49.14z"/></svg> Under construction…
+</div>
+<hr />
 </div>
 </div>
 <div id="linux" class="section level2">
@@ -483,11 +490,11 @@ datatable(t2, options=list(paging=FALSE), rownames=F)</code></pre>
 </div>
 <div id="database-commands" class="section level1">
 <h1>Database Commands</h1>
-<div id="general-1" class="section level2">
-<h2>General</h2>
-</div>
-<div id="postgresql" class="section level2">
-<h2>PostgreSQL</h2>
+<div style="display:inline;">
+<svg style="height:0.8em;top:.04em;position:relative;" viewBox="0 0 512 512">
+<path d="M480 288c0-80.25-49.28-148.92-119.19-177.62L320 192V80a16 16 0 0 0-16-16h-96a16 16 0 0 0-16 16v112l-40.81-81.62C81.28 139.08 32 207.75 32 288v64h448zm16 96H16a16 16 0 0 0-16 16v32a16 16 0 0 0 16 16h480a16 16 0 0 0 16-16v-32a16 16 0 0 0-16-16z"/>
+</svg>
+<svg style="height:0.8em;top:.04em;position:relative;" viewBox="0 0 576 512"><path d="M571.31 193.94l-22.63-22.63c-6.25-6.25-16.38-6.25-22.63 0l-11.31 11.31-28.9-28.9c5.63-21.31.36-44.9-16.35-61.61l-45.25-45.25c-62.48-62.48-163.79-62.48-226.28 0l90.51 45.25v18.75c0 16.97 6.74 33.25 18.75 45.25l49.14 49.14c16.71 16.71 40.3 21.98 61.61 16.35l28.9 28.9-11.31 11.31c-6.25 6.25-6.25 16.38 0 22.63l22.63 22.63c6.25 6.25 16.38 6.25 22.63 0l90.51-90.51c6.23-6.24 6.23-16.37-.02-22.62zm-286.72-15.2c-3.7-3.7-6.84-7.79-9.85-11.95L19.64 404.96c-25.57 23.88-26.26 64.19-1.53 88.93s65.05 24.05 88.93-1.53l238.13-255.07c-3.96-2.91-7.9-5.87-11.44-9.41l-49.14-49.14z"/></svg> Under construction…
 </div>
 </div>
 

diff --git a/queries.html b/queries.html
@@ -657,9 +657,9 @@ from d_location as loc
 </div>
 <div id="sequential-keys" class="section level2">
 <h2>Sequential Keys</h2>
-<p>– THIS CODE WILL RESET THE “seq_key” TO A SPECIFIC NUMBER</p>
+<p>Manually reset a sequential key.</p>
 <pre class="sql fold-show"><code>-- SQL THAT CREATED INITIAL SEQUENCE
-seq_key bigint NOT NULL DEFAULT nextval(&#39;d_dbhistory_seq_key_seq&#39;::regclass)
+-- seq_key bigint NOT NULL DEFAULT nextval(&#39;d_dbhistory_seq_key_seq&#39;::regclass)
 
 -- AFTER RUNNING THIS CODE, THE NEXT ROW TO BE INSERTED TO d_dbhistory
 --  WILL HAVE seq_key = 3
